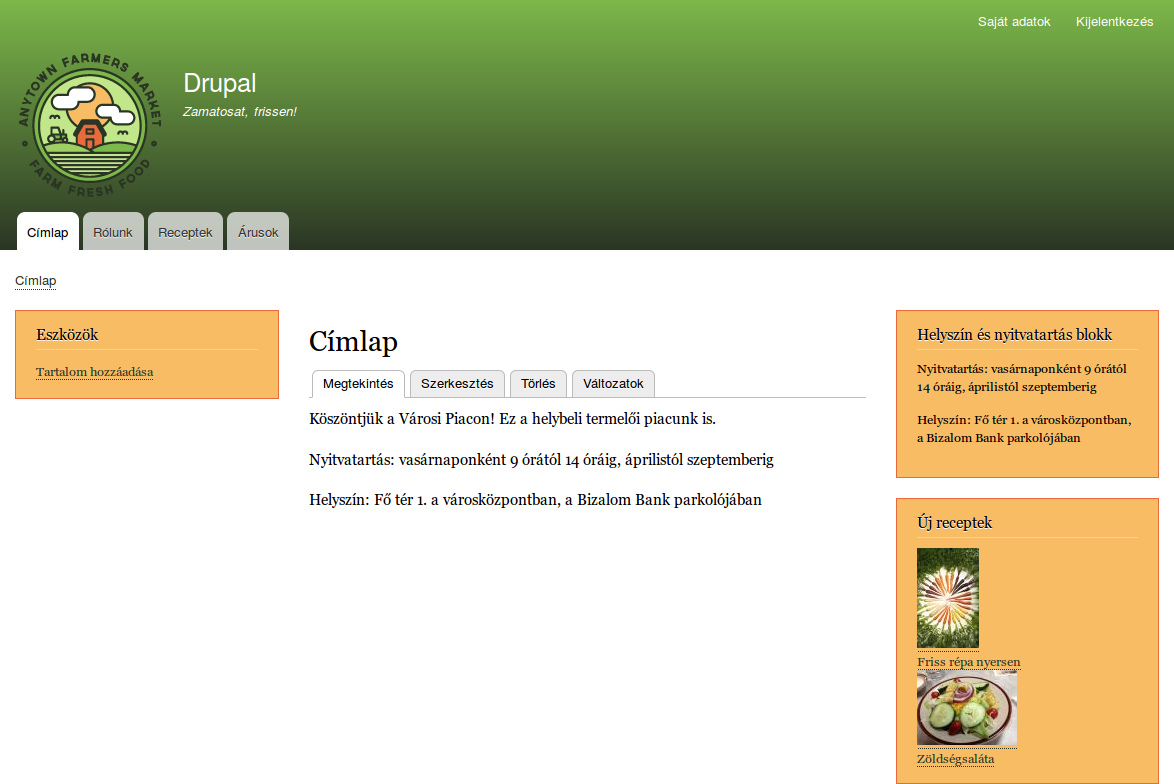
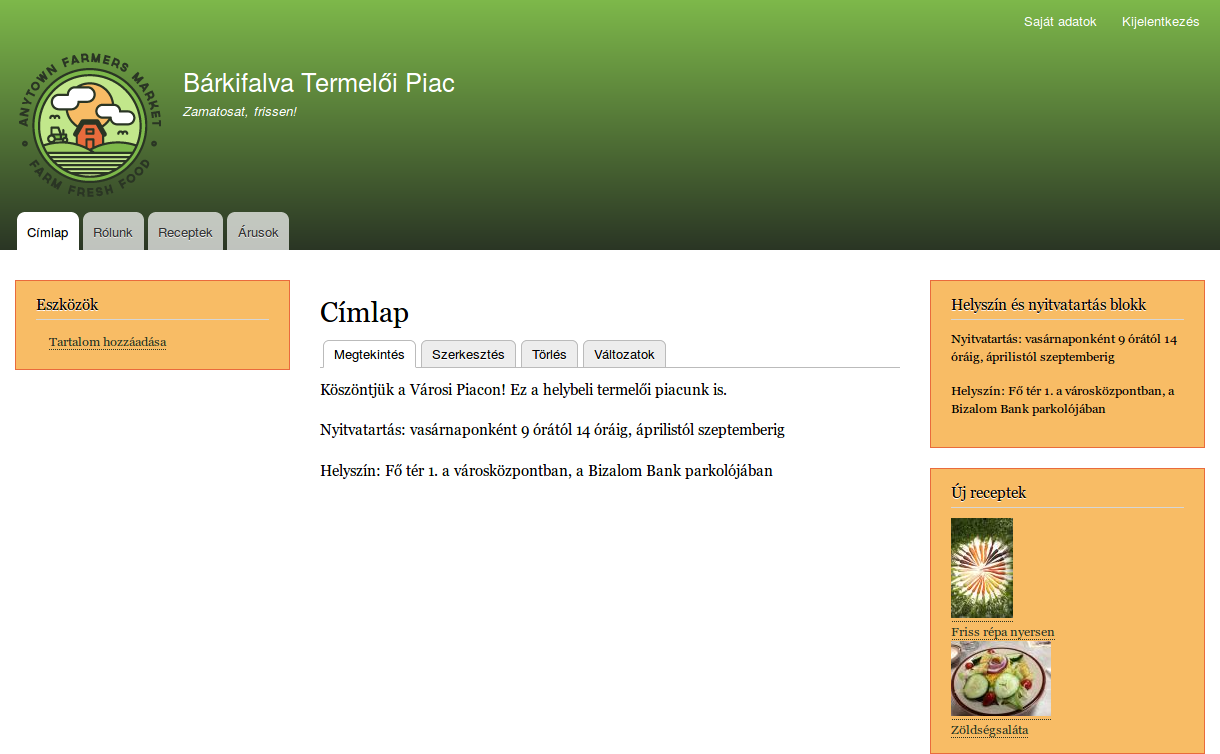
Issue #2857156 by jhodgdon: Work around site name bug in screenshot images

diff --git a/auto_screenshots/src/Tests/UserGuideDemoTestBase.php b/auto_screenshots/src/Tests/UserGuideDemoTestBase.php
@@ -429,6 +429,14 @@ abstract class UserGuideDemoTestBase extends WebTestBase {
     $this->setUpScreenShot('config-basic-SiteInfo.png', 'onLoad="' . $this->showOnly('#edit-site-information') . $this->setWidth('#edit-site-information') . '"');
 
     $this->drupalGet('<front>');
+    /**
+     * Due to some weird bug, even though we have set the site name, it is
+     * not showing on the site except in English, so don't run this line of
+     * the test.
+     */
+    //    $this->assertText($this->demoInput['site_name']);
+    $this->assertText($this->demoInput['site_slogan']);
+
     $this->clickLink($this->callT('Configuration'));
     $this->assertText($this->callT('Regional and language'));
     // Here, you would ideally want to click the "Regional settings" link.
@@ -595,7 +603,7 @@ abstract class UserGuideDemoTestBase extends WebTestBase {
     $this->assertText($this->callT('No front page content has been created yet.'));
 
     // Home page after theme settings are finished.
-    $this->setUpScreenShot('config-theme_final_result.png', 'onLoad="' . $this->hideArea('#toolbar-administration, .contextual') . $this->removeScrollbars() . '"');
+    $this->setUpScreenShot('config-theme_final_result.png', 'onLoad="' . $this->hideArea('#toolbar-administration, .contextual') . $this->replaceSiteName() . $this->removeScrollbars() . '"');
 
     // Back to topic: block-regions.
     $this->drupalGet('admin/structure/block/demo/bartik');
@@ -709,7 +717,7 @@ abstract class UserGuideDemoTestBase extends WebTestBase {
 
     $this->drupalGet('<front>');
     // Site front page after configuring it to point to the Home content item.
-    $this->setUpScreenShot('menu-home_final.png', 'onLoad="' . $this->hideArea('#toolbar-administration, footer, .contextual') . $this->setBodyColor() . $this->removeScrollbars() . '"');
+    $this->setUpScreenShot('menu-home_final.png', 'onLoad="' . $this->hideArea('#toolbar-administration, footer, .contextual') . $this->setBodyColor() . $this->replaceSiteName() . $this->removeScrollbars() . '"');
 
     // UI text tests from Topic: menu-concept.txt: Concept: Menu.
     // For some reason, these texts in particular have some strange HTML
@@ -754,7 +762,7 @@ abstract class UserGuideDemoTestBase extends WebTestBase {
     $this->setUpScreenShot('menu-link-from-content.png', 'onLoad="' . $this->showOnly('#edit-menu') . '"');
     $this->drupalGet('<front>');
     // Home page after adding About to the navigation.
-    $this->setUpScreenShot('menu-link-from-content-result.png', 'onLoad="' . $this->hideArea('#toolbar-administration, .contextual, footer') . $this->setBodyColor() . $this->removeScrollbars() . '"');
+    $this->setUpScreenShot('menu-link-from-content-result.png', 'onLoad="' . $this->hideArea('#toolbar-administration, .contextual, footer') . $this->setBodyColor() . $this->replaceSiteName() . $this->removeScrollbars() . '"');
 
     // Topic: menu-reorder - Changing the order of navigation.
     $this->drupalGet('<front>');
@@ -802,7 +810,7 @@ abstract class UserGuideDemoTestBase extends WebTestBase {
       ], $this->callT('Save and keep published'));
     $this->drupalGet('<front>');
     // Header section of Home page with reordered menu items.
-    $this->setUpScreenShot('menu-reorder_final_order.png', 'onLoad="' . $this->showOnly('header') . $this->hideArea('.visually-hidden, .contextual, .menu-toggle') . $this->setWidth('header') . $this->setBodyColor() . $this->removeScrollbars() . '"');
+    $this->setUpScreenShot('menu-reorder_final_order.png', 'onLoad="' . $this->showOnly('header') . $this->hideArea('.visually-hidden, .contextual, .menu-toggle') . $this->setWidth('header') . $this->setBodyColor() . $this->replaceSiteName() . $this->removeScrollbars() . '"');
 
   }
 
@@ -1722,7 +1730,7 @@ abstract class UserGuideDemoTestBase extends WebTestBase {
       ], $this->callT('Save block'));
     $this->drupalGet('node/2');
     // About page with placed sidebar block.
-    $this->setUpScreenShot('block-place-sidebar.png', 'onLoad="' . $this->hideArea('#toolbar-administration, footer') . $this->removeScrollbars() . '"');
+    $this->setUpScreenShot('block-place-sidebar.png', 'onLoad="' . $this->hideArea('#toolbar-administration, footer') . $this->replaceSiteName() . $this->removeScrollbars() . '"');
 
     // Verify some UI text on several block pages, without checking navigation.
     $this->drupalGet('admin/structure/block');
@@ -1868,10 +1876,10 @@ abstract class UserGuideDemoTestBase extends WebTestBase {
     // View the output, with preloaded images.
     $this->drupalGetWithImagePreload($this->demoInput['vendors_view_path']);
     // Completed vendors view output.
-    $this->setUpScreenShot('views-create-view-output.png', 'onLoad="' . $this->hideArea('#toolbar-administration, .site-footer') . $this->removeScrollbars() . $this->setBodyColor() . '"');
+    $this->setUpScreenShot('views-create-view-output.png', 'onLoad="' . $this->hideArea('#toolbar-administration, .site-footer') . $this->replaceSiteName() . $this->removeScrollbars() . $this->setBodyColor() . '"');
 
 
-    // Topic: views-duplicating - Duplicating a View.
+    // Topic: views-duplicate - Duplicating a View.
     // Duplicate the Vendors view.
     $this->drupalGet('admin/structure/views');
     $this->assertRaw($this->callT('Duplicate'));
@@ -1978,7 +1986,7 @@ abstract class UserGuideDemoTestBase extends WebTestBase {
 
     $this->drupalGetWithImagePreload($this->demoInput['recipes_view_path']);
     // Completed recipes view output.
-    $this->setUpScreenShot('views-duplicate_final.png', 'onLoad="' . $this->hideArea('#toolbar-administration, .site-footer') . $this->removeScrollbars() . $this->setBodyColor() . '"');
+    $this->setUpScreenShot('views-duplicate_final.png', 'onLoad="' . $this->hideArea('#toolbar-administration, .site-footer') . $this->replaceSiteName() . $this->removeScrollbars() . $this->setBodyColor() . '"');
 
     // Topic: views-block - Adding a Block Display to a View.
     // Add a block to the Recipes view.
@@ -2088,7 +2096,7 @@ abstract class UserGuideDemoTestBase extends WebTestBase {
       ]);
     $this->drupalGetWithImagePreload('<front>');
     // Home page with recipes sidebar visible.
-    $this->setUpScreenShot('views-block_sidebar.png', 'onLoad="' . $this->hideArea('#toolbar-administration, footer') . $this->removeScrollbars() . '"');
+    $this->setUpScreenShot('views-block_sidebar.png', 'onLoad="' . $this->hideArea('#toolbar-administration, footer') . $this->replaceSiteName() . $this->removeScrollbars() . '"');
 
   }
 
@@ -2378,8 +2386,9 @@ abstract class UserGuideDemoTestBase extends WebTestBase {
     $this->clearCache();
     $this->drupalLogout();
     $this->drupalGet('<front>');
-    // Site in maintenance mode.
-    $this->setUpScreenShot('extend-maintenance-mode-enabled.png', 'style="overflow: hidden;"');
+    // Site in maintenance mode. Note that this page does not have
+    // jQuery, so we cannot use the $this->replaceSiteName() function.
+    $this->setUpScreenShot('extend-maintenance-mode-enabled.png', 'style="overflow: hidden;" onLoad="var orig = document.body.innerHTML; orig = orig.replace(\'Drupal\', \'' . $this->demoInput['site_name'] . '\').replace(\'Drupal\', \'' . $this->demoInput['site_name'] . '\'); document.body.innerHTML = orig;"');
     $this->drupalLogin($this->rootUser);
     $this->drupalPostForm('admin/config/development/maintenance', [
         'maintenance_mode' => FALSE,
@@ -2388,7 +2397,7 @@ abstract class UserGuideDemoTestBase extends WebTestBase {
     $this->drupalLogout();
     $this->drupalGet('<front>');
     // Site no longer in maintenance mode.
-    $this->setUpScreenShot('extend-maintenance-mode-disabled.png', 'onLoad="' . $this->removeScrollbars() . '"');
+    $this->setUpScreenShot('extend-maintenance-mode-disabled.png', 'onLoad="' . $this->replaceSiteName() . $this->removeScrollbars() . '"');
     $this->drupalLogin($this->rootUser);
 
     // Topic: extend-module-install - Downloading and Installing a Module from
@@ -2852,7 +2861,6 @@ abstract class UserGuideDemoTestBase extends WebTestBase {
     return "jQuery('body').css('overflow', 'hidden');";
   }
 
-
   /**
    * Creates JavaScript code to reload the page, exactly once.
    *
@@ -2887,6 +2895,31 @@ abstract class UserGuideDemoTestBase extends WebTestBase {
     }
 
     return $code;
+  }
+
+  /**
+   * Returns JavaScript code to replace the site name in the header.
+   *
+   * There is a bug for non-English languages, which hasn't been reported or
+   * investigated, that in the test environment, even though the site name
+   * has been configured, it doesn't show up correctly in the page header. So,
+   * this method works around the bug for screenshots by using JQuery to
+   * replace the text in the header block.
+   *
+   * @param string[] $selectors
+   *   JQuery selectors for the HTML elements containing the site name. Defaults
+   *   to the site branding block in the header. Each array element will be
+   *   processed.
+   * @param string $original
+   *   Text currently appearing there that needs to be replaced with the site
+   *   name. Defaults to 'Drupal', which seems to be what is normally there.
+   */
+  protected function replaceSiteName($selectors = ['.region-header .site-branding__text a'], $original = 'Drupal') {
+    $string = 'var orig;';
+    foreach ($selectors as $selector) {
+       $string .= "orig = jQuery('" . $selector . "').html(); jQuery('" . $selector . "').html(orig.replace('" . $original . "', '" . $this->demoInput['site_name'] . "'));";
+    }
+    return $string;
   }
 
   /**
